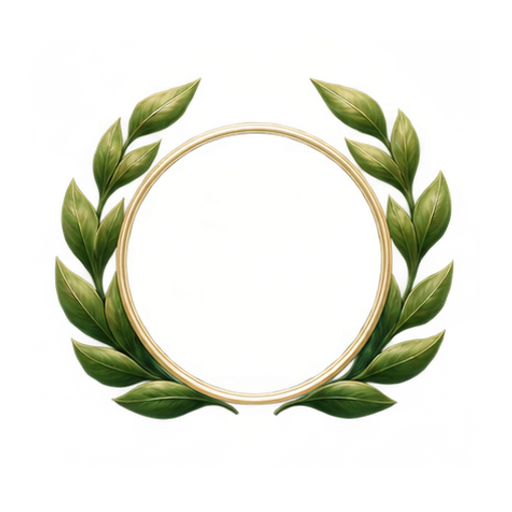
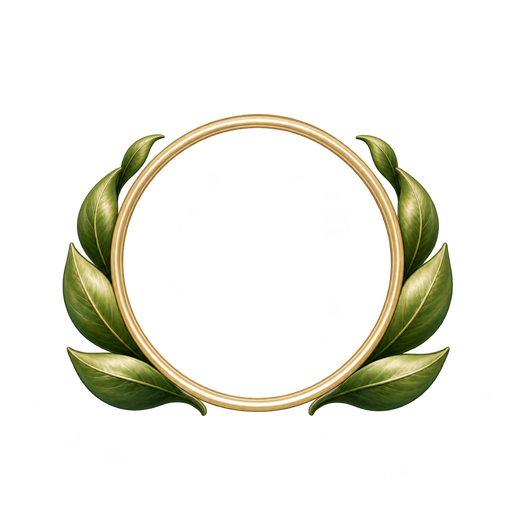
refine: make early laurel ranks progress one leaf at a time

Changed region(s): [[0.0938, 0.1562, 0.9062, 0.8438]]

diff --git a/packages/shared/src/rank-symbols.ts b/packages/shared/src/rank-symbols.ts
@@ -14,7 +14,7 @@ export const RANK_SYMBOLS = [
 export type RankSymbolId = (typeof RANK_SYMBOLS)[number]["id"];
 export type RankSymbolVariant = "badge" | "frame";
 
-/** Both variants share this exact portrait aperture, in SVG viewBox units. */
+/** Both variants share this exact portrait aperture, in logical 160×160 canvas units. */
 export const RANK_SYMBOL_GEOMETRY = {
   size: 160,
   portrait: { x: 38, y: 40, size: 84 },

diff --git a/docs/rank-symbols-prompt.md b/docs/rank-symbols-prompt.md
@@ -7,3 +7,23 @@ and normalized into nine 512px transparent frames. No scoring rules changed.
 ## Prompt
 
 Create ONE production sprite atlas image, a precisely aligned 3 by 3 grid of NINE rank wreath frames, matching the attached reference artwork as EXACTLY as possible. This is an asset extraction/recreation, not a redesign. No text, no labels, no backdrop, no shadows outside art. Truly transparent background AND transparent circular centers. The wreath forms and highly detailed polished 3D foliage must closely follow the reference, NOT flat vector shapes. Soft realistic sculpted tapered olive laurel leaves, pointed elongated tips, visible central veins and folded facets, shaded dark forest green undersides, olive sage highlights, burnished gold highlights, delicate golden circular rims, rich dimensional emerald satin ribbons. Match natural asymmetric overlapping leaf placement and silhouette from reference; do not make a mechanical evenly spaced botanical diagram. Top row left to right Beginner (one small green sprig each bottom side), Rookie (two leaves each bottom side), Active (slender partial green laurel branches). Middle row Challenger (taller green branches), Athlete (fuller green branches), Elite (full green branches and dark green dimensional ribbon at bottom). Bottom row Master (green laurel with gold upper leaves and faceted gold diamond at bottom), Olympian (mostly gold laurel with green lower leaves, diamond bottom, gold four-point spark above), Champion (luxuriant gold laurel, sculpted gold crown above, dark green satin ribbon and central gold shield-shaped jewel below). Every cell SAME dimensions. Every center circular opening exactly same size and location: centered at 50% cell width and 51.25% cell height, opening diameter 52.5% cell width. All artwork fits within its cell with 4% margin, no overlap between cells. Thin cream/gold double metal circle rim around opening. IMPORTANT: centers empty fully transparent, NO cream discs, NO chevrons, NO portraits. Artwork carefully rendered with smooth glossy 3D beveled surfaces and fine texture and lighting matching supplied reference. Render large high resolution square atlas, ideally 1536x1536, with 512px square cells.
+
+
+## Follow-up progression edits
+
+The built-in image tool edited individual assets using these constraints:
+
+- Active: add exactly one leaf per side to Rookie, keeping its two existing
+  bottom leaves, to produce three leaves per side. Preserve the rim, transparent
+  center, folded green leaves, veins, dark undersides and sage/gold highlights.
+- Challenger: add exactly one leaf to the top of each Active branch, producing
+  four leaves per side. Preserve the three existing leaves and all other styling.
+- Athlete: reuse the original Challenger PNG unchanged.
+- Elite: generate only a dimensional emerald satin ribbon beneath the original
+  Challenger frame. Keep the original foliage exactly; after normalizing the
+  generated image, composite only its ribbon region over the unchanged Athlete
+  asset, preserving the foliage pixels.
+
+All three generation calls requested true transparency, no text, no chevrons,
+no crown or jewel, and unchanged circular rim placement. The results were
+normalized to the shared portrait aperture and copied to both asset locations.

diff --git a/docs/rank-symbols.md b/docs/rank-symbols.md
@@ -3,8 +3,9 @@
 ![Nine symbols, standalone and around an avatar](design/rank-symbols.png)
 
 The nine visual identities follow the reference: Beginner, Rookie, Active,
-Challenger, Athlete, Elite, Master, Olympian and Champion. Leaves grow in number
-and height; Elite adds a ribbon, Master introduces gold and a faceted jewel,
+Challenger, Athlete, Elite, Master, Olympian and Champion. Beginner has one leaf per side, Rookie two, Active three and Challenger four.
+Athlete uses the fuller green wreath; Elite uses that same wreath with a ribbon.
+Master introduces gold and a faceted jewel,
 Olympian adds a star, and Champion finishes with a gold wreath and crown.
 
 ## Use on web or native
